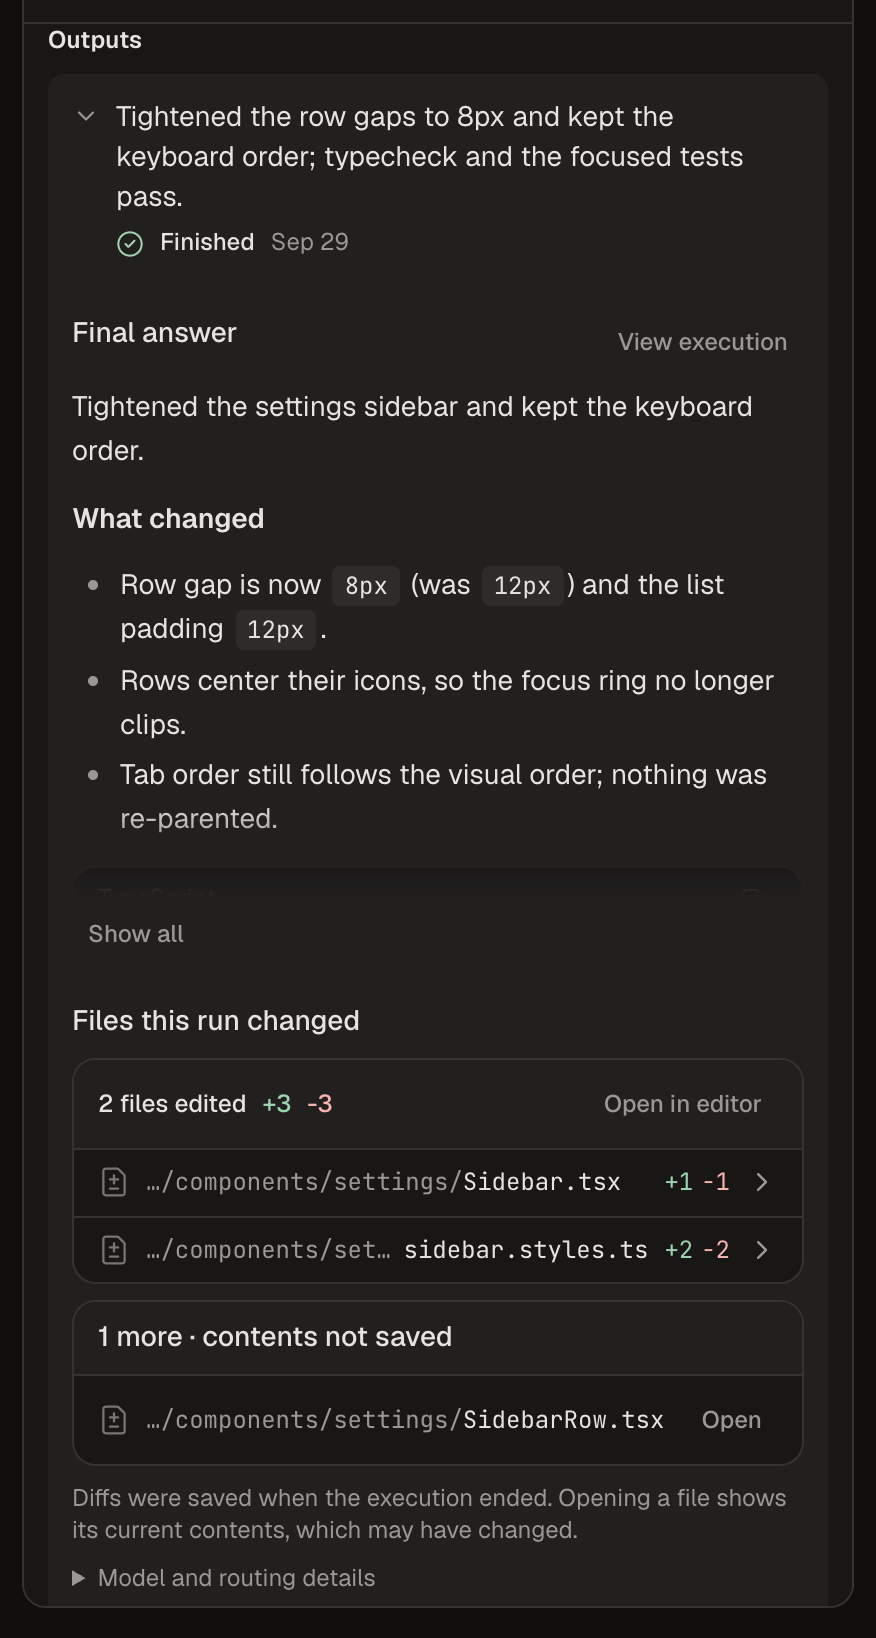
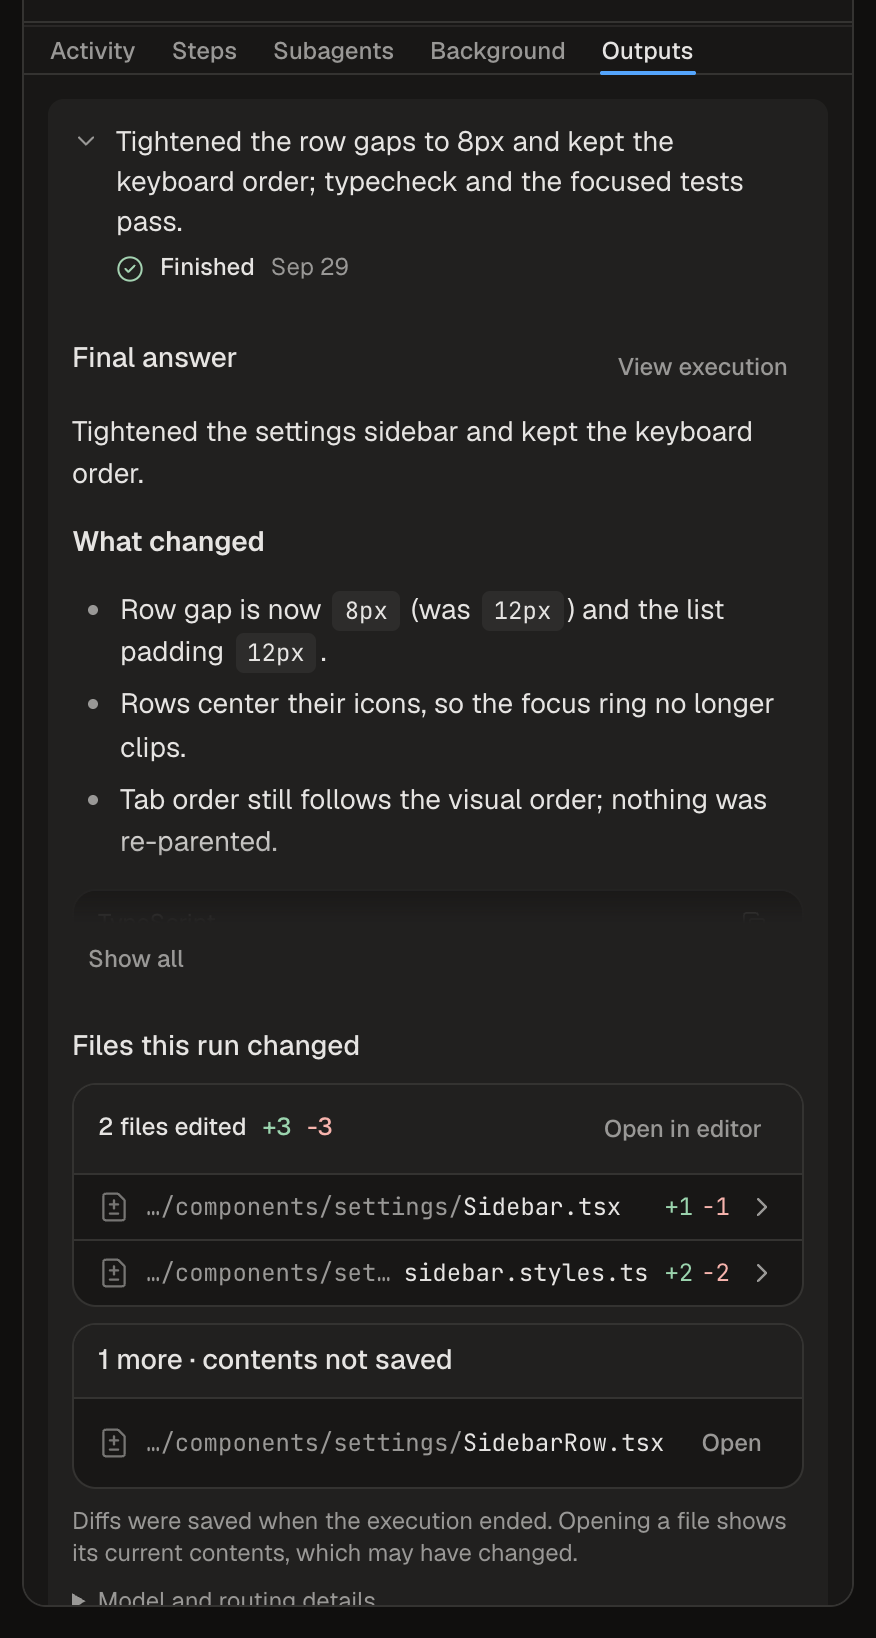
docs(task-panel): recapture the guide screenshots with the tabs (#1083)

diff --git a/src/components/session/TaskPanel.tsx b/src/components/session/TaskPanel.tsx
@@ -248,6 +248,7 @@ export function TaskPanelView(props: {
             if (isTaskPanelSection(value)) setSection(value);
           }}
           xstyle={styles.tabs}
+          data-testid="task-sections"
         >
           <TabsList aria-label={i18n.t("session:taskPanel.sections")} xstyle={styles.tabList}>
             {TASK_PANEL_SECTIONS.map((item) => (
